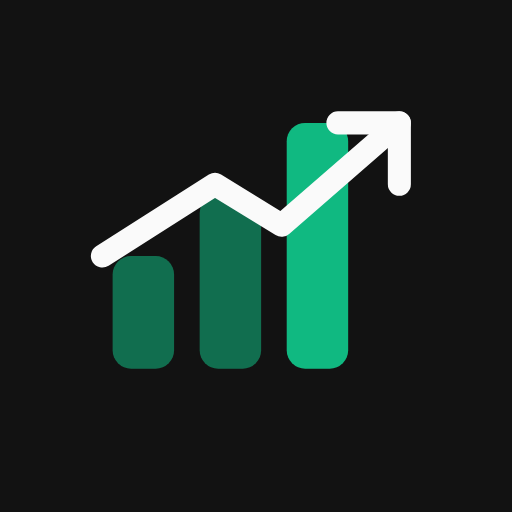
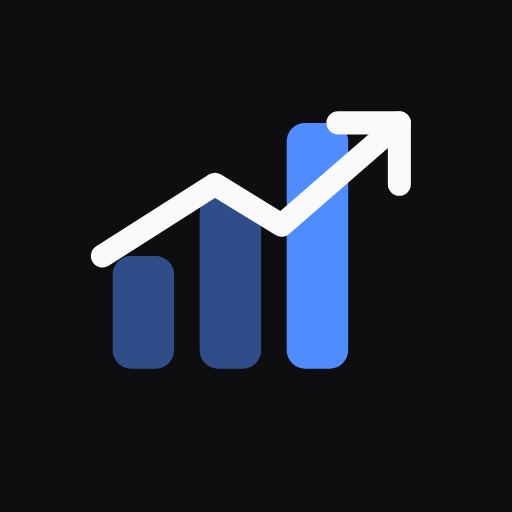
style: cor principal azul (#4f8cff) e ícone do app em azul

Changed region(s): [[0.375, 0.3438, 0.6875, 0.7188], [0.2188, 0.5, 0.3438, 0.7188], [0.5312, 0.2188, 0.6875, 0.4062]]

diff --git a/src/components/importar/ImportarScreen.tsx b/src/components/importar/ImportarScreen.tsx
@@ -514,7 +514,7 @@ export function ImportarScreen() {
         <p className="rounded-xl bg-negativo/10 px-3 py-2.5 text-sm text-negativo">{erro}</p>
       ) : null}
       {aviso ? (
-        <p className="rounded-xl bg-marca/10 px-3 py-2.5 text-sm text-positivo">{aviso}</p>
+        <p className="rounded-xl bg-positivo/10 px-3 py-2.5 text-sm text-positivo">{aviso}</p>
       ) : null}
 
       {carregando ? (

diff --git a/src/lib/icone-categoria.ts b/src/lib/icone-categoria.ts
@@ -67,4 +67,4 @@ export function iconeDaCategoria(categoria: string | null | undefined): LucideIc
 }
 
 /** Paleta para categorias em gráficos (ordem fixa, legível no fundo escuro). */
-export const CORES_CATEGORIA = ["#10b981", "#60a5fa", "#f97316", "#a78bfa", "#f472b6", "#71717a"] as const;
+export const CORES_CATEGORIA = ["#4f8cff", "#a78bfa", "#f97316", "#f472b6", "#facc15", "#71717a"] as const;

diff --git a/src/app/globals.css b/src/app/globals.css
@@ -18,8 +18,8 @@
   --color-texto: #f4f4f5;
   --color-texto-2: #a1a1aa;
   --color-texto-3: #71717a;
-  --color-marca: #10b981;
-  --color-marca-forte: #0ea371;
+  --color-marca: #4f8cff;
+  --color-marca-forte: #3b76ea;
   --color-positivo: #34d399;
   --color-negativo: #f87171;
   --color-alerta: #fbbf24;
